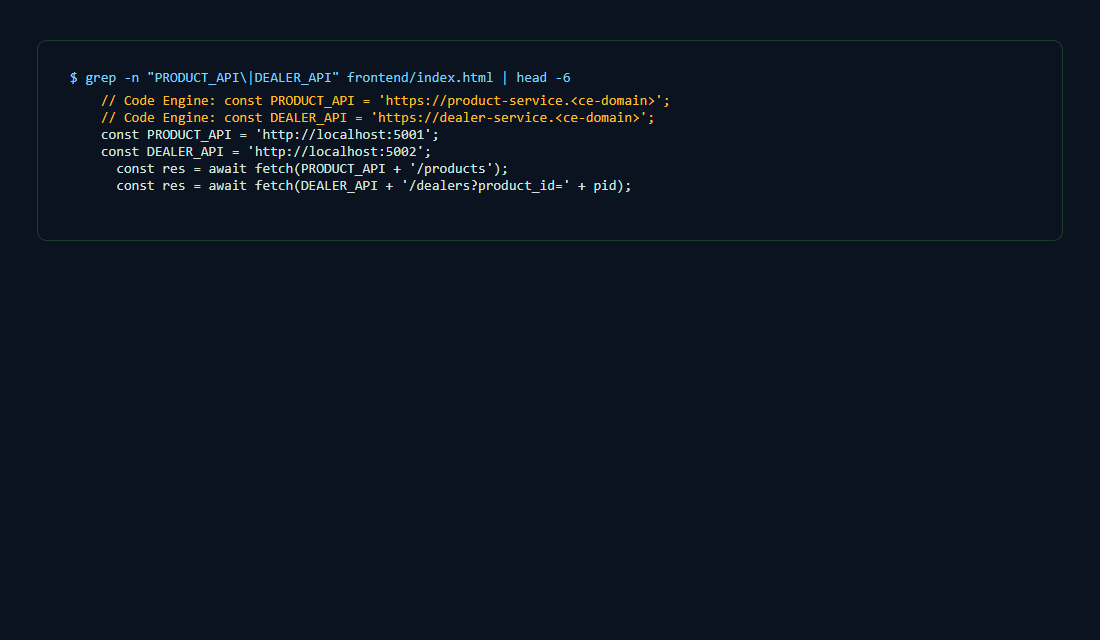
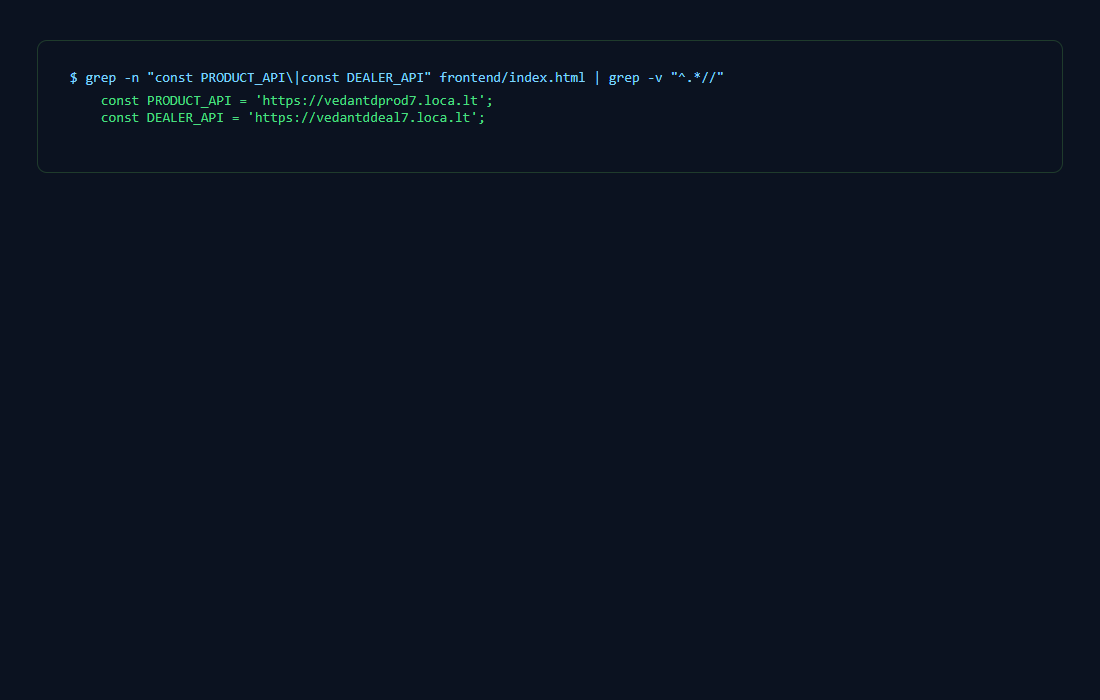
Wire public tunnel URLs as active API endpoints, refresh deploy screenshots

Changed region(s): [[0.0618, 0.0938, 0.6491, 0.3125]]

diff --git a/assignment-08-microservices/frontend/index.html b/assignment-08-microservices/frontend/index.html
@@ -32,11 +32,11 @@
     <div id="price"></div>
   </main>
   <script>
-    // ===== API endpoints (replace with Code Engine deployed URLs) =====
-    // Code Engine: const PRODUCT_API = 'https://product-service.<ce-domain>';
-    // Code Engine: const DEALER_API = 'https://dealer-service.<ce-domain>';
-    const PRODUCT_API = 'http://localhost:5001';
-    const DEALER_API = 'http://localhost:5002';
+    // ===== API endpoints: public deployment URLs (local fallback in comments) =====
+    // Local: const PRODUCT_API = 'http://localhost:5001';
+    // Local: const DEALER_API = 'http://localhost:5002';
+    const PRODUCT_API = 'https://vedantdprod7.loca.lt';
+    const DEALER_API = 'https://vedantddeal7.loca.lt';
 
     const productSel = document.getElementById('product');
     const dealerSel = document.getElementById('dealer');
